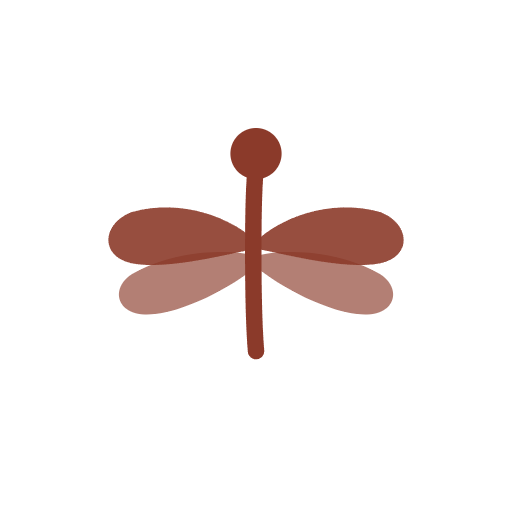
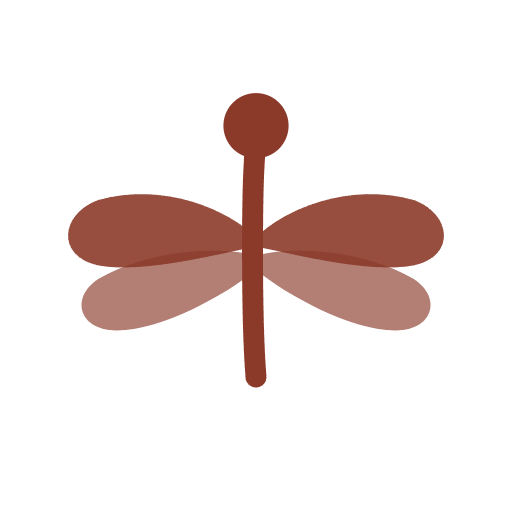
ホーム画面のアプリアイコンの大きさと美しさを最優先にするよう変更

diff --git a/frontend/public/generate-logos.html b/frontend/public/generate-logos.html
@@ -2,40 +2,18 @@
 <html lang="ja">
 <head>
   <meta charset="UTF-8">
-  <title>完璧なロゴ生成ツール（白背景・赤とんぼ）</title>
+  <title>アプリアイコン特化 生成ツール</title>
 </head>
 <body style="background: #f4f1ed; text-align: center; padding: 40px; font-family: sans-serif;">
   
-  <h2 style="color: #4b3e2a;">1. アプリアイコン用（icon-512.png）</h2>
-  <p style="font-size:12px; color:#666;">※Androidのセーフゾーンに完璧に収まるよう、とんぼを少し小さく配置（白背景・赤とんぼ）</p>
-  <canvas id="canvasIcon" width="512" height="512" style="max-width:200px; border-radius:20%; box-shadow:0 4px 10px rgba(0,0,0,0.1); margin-bottom: 20px;"></canvas>
-
-  <h2 style="color: #4b3e2a;">2. スプラッシュ用（splash-512.png）</h2>
-  <p style="font-size:12px; color:#666;">※OSが拡大しても美しく見えるよう、周囲にたっぷりの透明な余白を確保（白背景・赤とんぼ）</p>
-  <canvas id="canvasSplash" width="512" height="512" style="max-width:200px; border:1px dashed #ccc;"></canvas>
+  <h2 style="color: #4b3e2a;">アプリアイコン特化（icon-512.png）</h2>
+  <p style="font-size:12px; color:#666;">※ホーム画面のアイコンとして最も大きく、美しく見えるサイズに調整しました</p>
+  <canvas id="canvasIcon" width="512" height="512" style="max-width:200px; border-radius:20%; box-shadow:0 4px 10px rgba(0,0,0,0.1);"></canvas>
 
   <script>
-    function downloadSVG(svgStr, filename, canvasId) {
-      const img = new Image();
-      const svgBlob = new Blob([svgStr], {type: "image/svg+xml;charset=utf-8"});
-      const url = URL.createObjectURL(svgBlob);
-      img.onload = () => {
-        const canvas = document.getElementById(canvasId);
-        const ctx = canvas.getContext("2d");
-        ctx.clearRect(0, 0, 512, 512);
-        ctx.drawImage(img, 0, 0);
-        try {
-          const a = document.createElement("a");
-          a.download = filename;
-          a.href = canvas.toDataURL("image/png");
-          a.click();
-        } catch(e) {}
-      };
-      img.src = url;
-    }
-
-    // アイコン用（白背景・赤とんぼ。とんぼを中央に配置して少し縮小）
-    const iconSvg = `<svg width="512" height="512" viewBox="-20 -20 140 140" xmlns="http://www.w3.org/2000/svg">
+    // viewBoxを「-5 -5 110 110」に設定。
+    // 余白を最小限にし、ホーム画面でとんぼが最大限大きく表示されるようにしています。
+    const iconSvg = `<svg width="512" height="512" viewBox="-5 -5 110 110" xmlns="http://www.w3.org/2000/svg">
       <rect x="-50" y="-50" width="200" height="200" fill="#ffffff"/>
       <path d="M50 46 C44 40,30 34,16 38 C8 41,7 50,16 52 C26 54,44 49,50 48Z" fill="#8B3A2A" opacity="0.9"/>
       <path d="M50 46 C56 40,70 34,84 38 C92 41,93 50,84 52 C74 54,56 49,50 48Z" fill="#8B3A2A" opacity="0.9"/>
@@ -45,19 +23,22 @@
       <circle cx="50" cy="22" r="7" fill="#8B3A2A"/>
     </svg>`;
 
-    // スプラッシュ用（白背景・赤とんぼ。とんぼをさらに縮小して余白をたっぷりとる）
-    const splashSvg = `<svg width="512" height="512" viewBox="-80 -80 260 260" xmlns="http://www.w3.org/2000/svg">
-      <rect x="-100" y="-100" width="300" height="300" fill="#ffffff"/>
-      <path d="M50 46 C44 40,30 34,16 38 C8 41,7 50,16 52 C26 54,44 49,50 48Z" fill="#8B3A2A" opacity="0.9"/>
-      <path d="M50 46 C56 40,70 34,84 38 C92 41,93 50,84 52 C74 54,56 49,50 48Z" fill="#8B3A2A" opacity="0.9"/>
-      <path d="M50 50 C44 48,28 48,16 55 C10 59,12 66,20 66 C30 66,44 58,50 53Z" fill="#8B3A2A" opacity="0.65"/>
-      <path d="M50 50 C56 48,72 48,84 55 C90 59,88 66,80 66 C70 66,56 58,50 53Z" fill="#8B3A2A" opacity="0.65"/>
-      <path d="M50 26 C49 32,49 64,50 76" stroke="#8B3A2A" stroke-width="4.5" fill="none" stroke-linecap="round"/>
-      <circle cx="50" cy="22" r="7" fill="#8B3A2A"/>
-    </svg>`;
-
-    setTimeout(() => downloadSVG(iconSvg, 'icon-512.png', 'canvasIcon'), 500);
-    setTimeout(() => downloadSVG(splashSvg, 'splash-512.png', 'canvasSplash'), 1000);
+    const img = new Image();
+    const svgBlob = new Blob([iconSvg], {type: "image/svg+xml;charset=utf-8"});
+    const url = URL.createObjectURL(svgBlob);
+    
+    img.onload = () => {
+      const canvas = document.getElementById('canvasIcon');
+      const ctx = canvas.getContext("2d");
+      ctx.drawImage(img, 0, 0);
+      try {
+        const a = document.createElement("a");
+        a.download = 'icon-512.png';
+        a.href = canvas.toDataURL("image/png");
+        a.click();
+      } catch(e) {}
+    };
+    img.src = url;
   </script>
 </body>
 </html>

diff --git a/frontend/index.html b/frontend/index.html
@@ -7,7 +7,7 @@
     <link rel="apple-touch-icon" href="/icon-512.png" />
     <link rel="icon" sizes="192x192" href="/icon-512.png" />
     
-    <link rel="manifest" href="/manifest.json?v=7" />
+    <link rel="manifest" href="/manifest.json?v=9" />
 
     <meta name="viewport" content="width=device-width, initial-scale=1.0, maximum-scale=1.0, user-scalable=no" />
     
@@ -41,7 +41,6 @@
         width: 100%;
       }
 
-      /* スプラッシュスクリーン */
       #splash-screen {
         position: fixed;
         top: 0;
@@ -57,9 +56,9 @@
         animation: fadeOutSplash 0.4s ease-in-out 1.2s forwards;
       }
 
-      /* ★修正：アニメーションのロゴも少し小さく（80px）しました */
+      /* ★本来の大きさ（110px）に戻しました */
       #splash-screen img {
-        width: 80px;
+        width: 110px;
         height: auto;
         animation: popInLogo 0.8s cubic-bezier(0.2, 0.8, 0.2, 1) forwards;
       }
